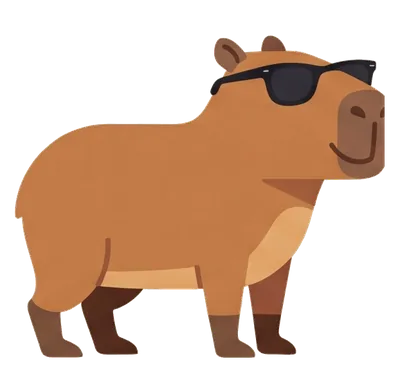
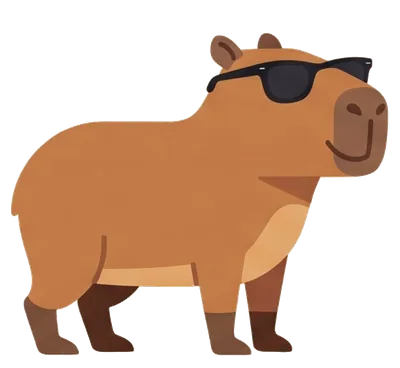
Re-cut the adult sprites by figure pixels: two noses were cut off
An audit of all six sheets found the left-column figure crossing the grid
line by 10-12 px on every one. The child and teen sets were already cut by
figure pixels; the adult set still used the equal-cell crop and lost the nose
tip on wealth0 (the start screen's face) and happy1, with a flat vertical
edge in place of the snout. Both sheets re-cut on the same 622x573 canvas;
five files changed, the rest came out byte-identical. Icons untouched.

Claude-Session: https://claude.ai/code/session_017yYHzfKDqTR1q54WVEq5yi

diff --git a/scripts/cut-sprites.py b/scripts/cut-sprites.py
@@ -10,7 +10,9 @@ rendered it). Cells are named left to right, top to bottom; "-" skips a cell.
 Figures are found by their own pixels (runs of non-background columns inside runs of
 non-background rows), not by dividing the sheet into equal cells: Gemini does not centre
 figures in equal cells, and a nose that crosses the grid line was being cut off (child
-sheet, 2026-11-08). --grid-cut restores the equal-cell crop the adult sheets were cut with.
+sheet, 2026-11-08; an audit on 2026-11-11 found the left-column figure of every sheet
+crossing by 10-12 px, and the adult set was re-cut). --grid-cut keeps the old equal-cell
+crop for comparison only.
 --canvas fixes the source-pixel canvas every sprite is placed on, so sprites cut from
 different sheets come out at the same scale. Both sheets so far use 622x573.
 --icons also writes icon-512.png, icon-192.png and favicon.png from the cell named "icon".
@@ -18,8 +20,8 @@ different sheets come out at the same scale. Both sheets so far use 622x573.
 Needs Pillow and numpy.
 
 Sheets used so far:
-  assets/raw/capi-sheet-gemini-2026-11-07.jpg        --names wealth0,wealth1,wealth2,wealth3,-,worried,happy,icon --icons --grid-cut
-  assets/raw/capi-sheet-moods-gemini-2026-11-07.jpg  --names=-,worried1,worried2,worried3,happy1,-,happy2,happy3 --flip happy3 --canvas 622x573 --grid-cut
+  assets/raw/capi-sheet-gemini-2026-11-07.jpg        public/capi --names wealth0,wealth1,wealth2,wealth3,-,worried,happy,icon --canvas 622x573 (--icons once, 2026-11-07)
+  assets/raw/capi-sheet-moods-gemini-2026-11-07.jpg  public/capi --names=-,worried1,worried2,worried3,happy1,-,happy2,happy3 --flip happy3 --canvas 622x573
   assets/raw/capi-sheet-child-gemini-2026-11-08.jpg        public/capi/child --names wealth0,wealth1,wealth2,wealth3,worried,happy,happy1,happy3 --flip happy3 --canvas 622x573 --width 200
   assets/raw/capi-sheet-child-moods-gemini-2026-11-08.jpg  public/capi/child --names=-,-,-,happy2,worried1,worried2,worried3,- --canvas 622x573 --width 200
     (the child is drawn smaller on the same canvas on purpose; a name list that starts with "-"
